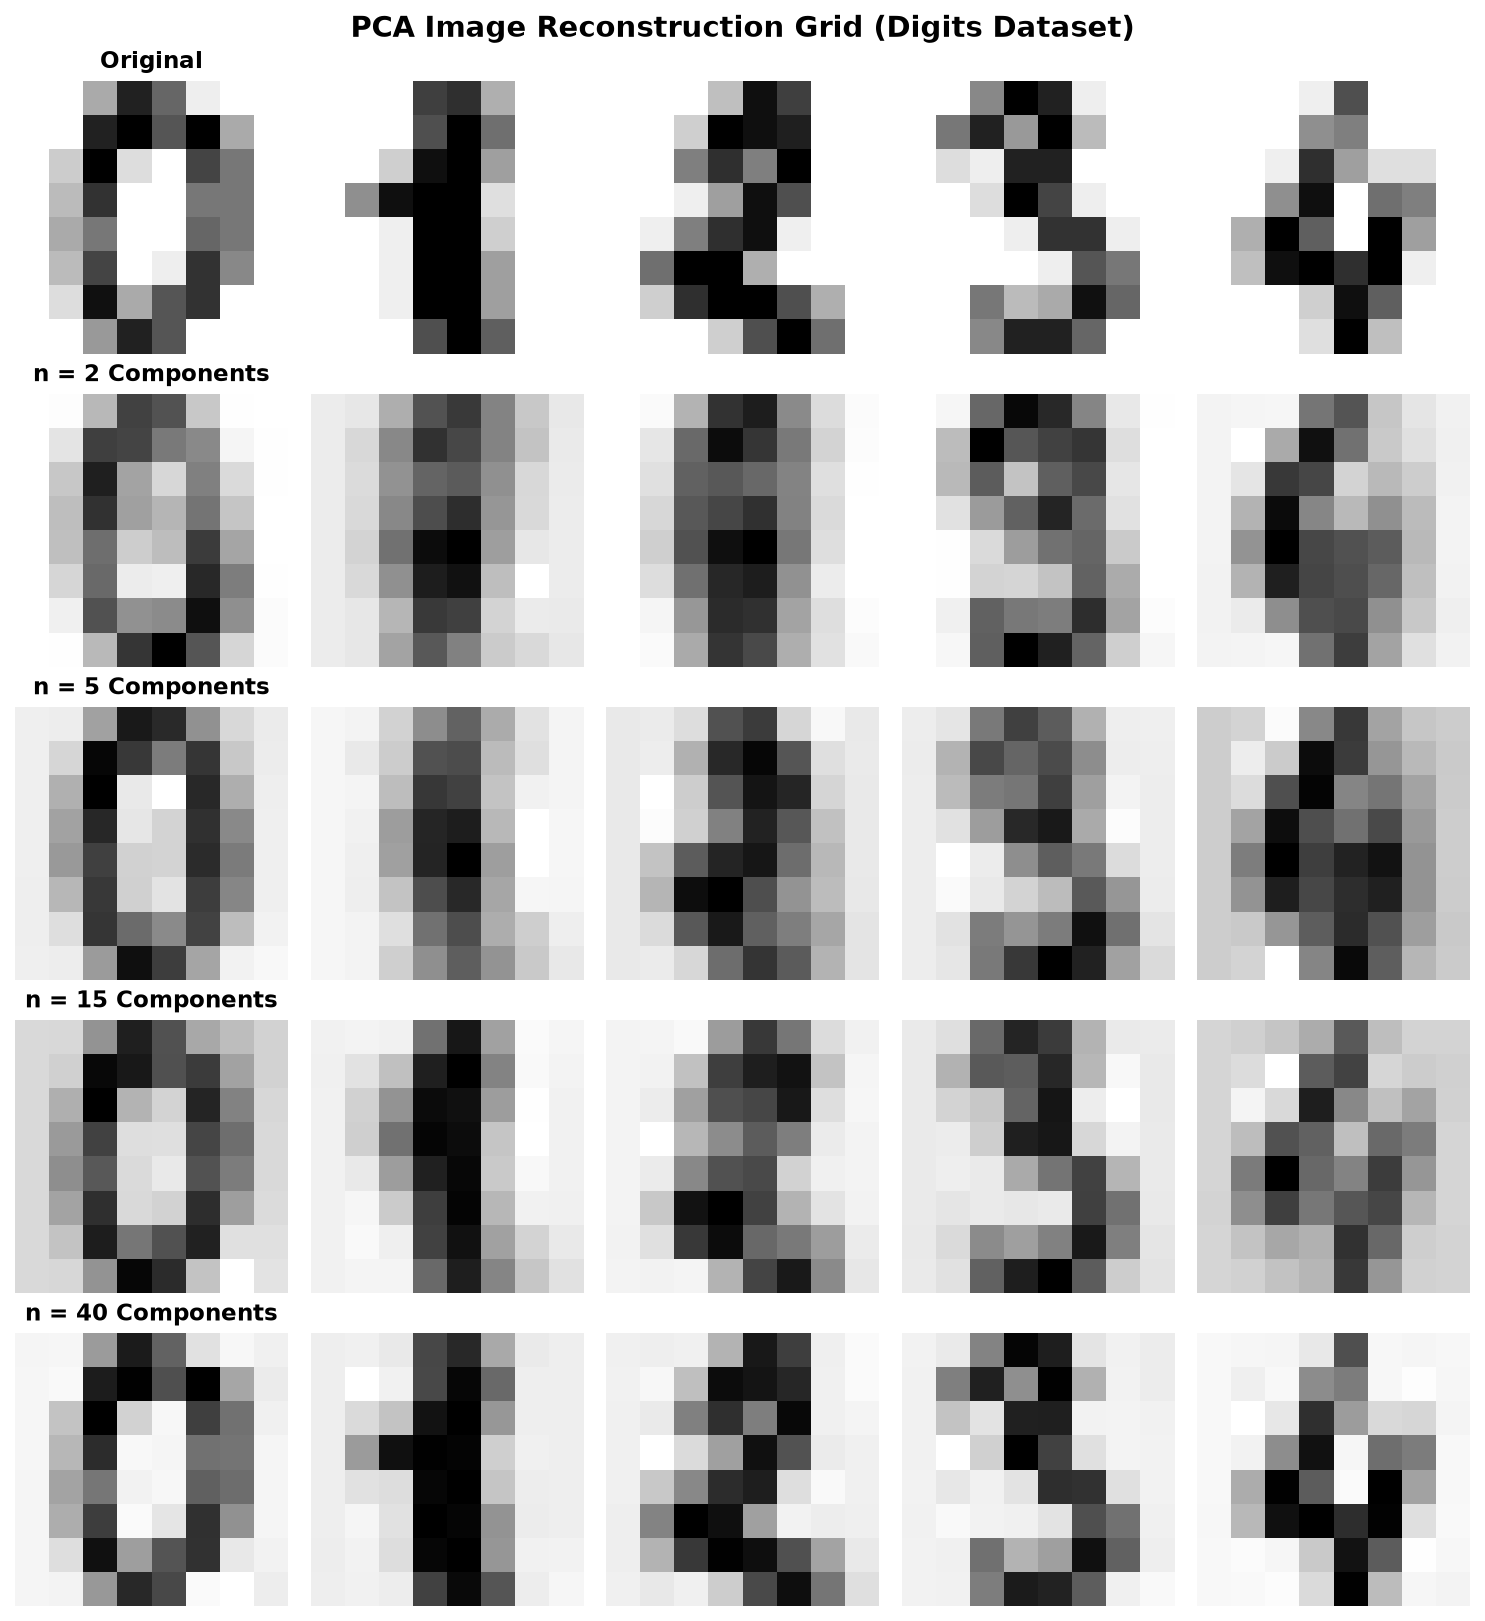
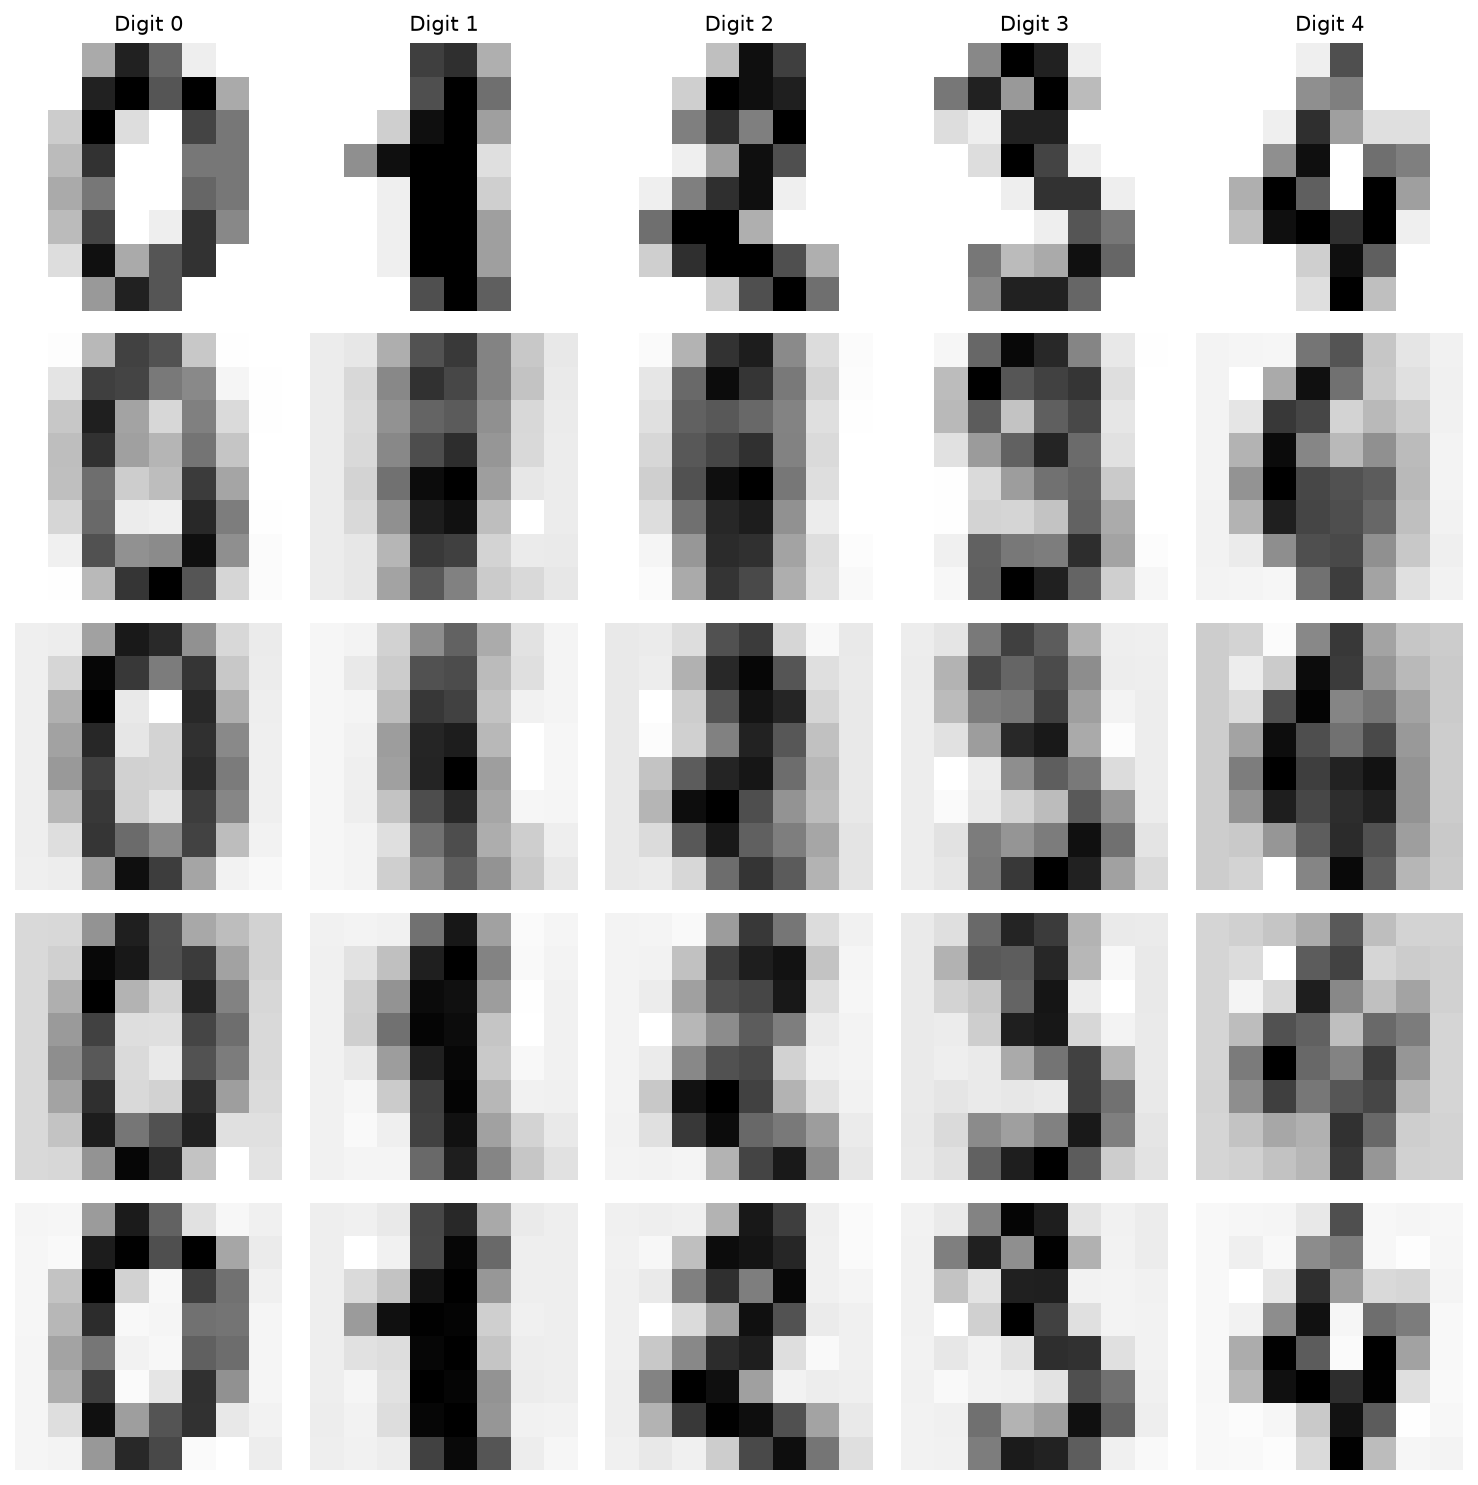
Complete Week 3 warmup exercises and mini-project shootouts

diff --git a/assignments_03/warmup_03.py b/assignments_03/warmup_03.py
@@ -114,19 +114,22 @@ c_values = [0.01, 1.0, 100.0]
 print("\n--- Logistic Regression Regularization Question 1 Results ---")
 
 for c in c_values:
-    # Wrap liblinear inside OneVsRestClassifier to make it compatible with 1.5+ scikit-learn
+    # Set up models exactly as specified
     base_lr = LogisticRegression(C=c, max_iter=1000, solver='liblinear', random_state=42)
     lr_model = OneVsRestClassifier(base_lr)
     
-    # Fit the model on the scaled training data
+    # Fit on the scaled training data
     lr_model.fit(X_train_scaled, y_train)
     
-    # Extract coefficients across all internal binary classifiers
-    total_coef = np.array([estimator.coef_.flatten() for estimator in lr_model.estimators_])
-    coef_magnitude = np.abs(total_coef).sum()
+    # Bind the combined internal coefficients directly to model.coef_ to match assignment wording
+    lr_model.coef_ = np.array([estimator.coef_.flatten() for estimator in lr_model.estimators_])
+    
+    # Compute using the exact formula required by the instructions
+    coef_magnitude = np.abs(lr_model.coef_).sum()
     
     # Display results
     print(f"C value: {c:6.2f} | Total Coefficient Magnitude: {coef_magnitude:.4f}")
+
 
 
 
@@ -154,8 +157,15 @@ print("Saved outputs/sample_digits.png")
 
 # Q2
 print("\n--- PCA Question 2 ---")
+
+# 1. Fit PCA on X_digits as requested
 pca = PCA()
-scores = pca.fit_transform(X_digits)
+pca.fit(X_digits)
+
+# 2. Get the scores using transform separately
+scores = pca.transform(X_digits)
+
+# 3. Plot the results
 plt.figure(figsize=(8, 6))
 scatter = plt.scatter(
     scores[:, 0], scores[:, 1], c=y_digits, cmap="tab10", s=10
@@ -167,11 +177,17 @@ plt.title("PCA 2D Projection of Handwritten Digits")
 plt.tight_layout()
 plt.savefig("outputs/pca_2d_projection.png", dpi=150)
 plt.close()
+
 print("Saved outputs/pca_2d_projection.png")
-# Yes, same-digit images show clean tendencies to form clusters together in this low-dimensional 2D principal projection space.
+
+# Comment: Yes, same-digit images definitely tend to cluster together in this 2D space. 
+# Distinct groups are clearly visible, such as digit 0 clustered at the bottom center, 
+# digit 4 on the far right, and digit 3 on the far left, though some structural overlap 
+# occurs between digits with similar pixel distributions near the center of the plot.
+
+
 
 # Q3
-# # Q3
 # Calculate cumulative explained variance ratio
 cumulative_variance = np.cumsum(pca.explained_variance_ratio_)
 
@@ -204,7 +220,7 @@ print("PCA Cumulative Variance plot saved to outputs/pca_variance_explained.png"
 # plotted cumulative variance curve first crosses the 0.80 threshold mark.
 
 
-# # Q4
+# Q4
 def reconstruct_digit(sample_idx, scores, pca, n_components):
     """Reconstruct one digit using the first n_components principal components."""
     reconstruction = pca.mean_.copy()
@@ -214,38 +230,40 @@ def reconstruct_digit(sample_idx, scores, pca, n_components):
 
 # Component thresholds and rows setup exactly matching instructions
 n_values = [2, 5, 15, 40]
-n_samples = 5
+n_samples = 5 
 
-# 5 rows total: 1 original row + 4 reconstruction rows
-fig, axes = plt.subplots(5, n_samples, figsize=(10, 11))
-fig.suptitle("PCA Image Reconstruction Grid (Digits Dataset)", fontsize=14, fontweight='bold', y=0.98)
+# Set up grid of subplots: 5 rows (Original + 4 n values), 5 columns (digits)
+fig, axes = plt.subplots(5, n_samples, figsize=(10, 10))
 
 for col_idx in range(n_samples):
     # --- Row 0: Original Images ---
     axes[0, col_idx].imshow(images[col_idx], cmap='gray_r')
     axes[0, col_idx].axis('off')
+    axes[0, col_idx].set_title(f"Digit {y_digits[col_idx]}", fontsize=10)
+    
     if col_idx == 0:
-        axes[0, col_idx].set_title("Original", loc='center', fontsize=11, fontweight='bold')
-        
+        axes[0, col_idx].set_ylabel("Original", rotation=0, labelpad=40, va='center', fontweight='bold', fontsize=11)
+
     # --- Rows 1-4: PCA Reconstructions ---
     for row_idx, n in enumerate(n_values, start=1):
         recon_img = reconstruct_digit(col_idx, scores, pca, n_components=n)
         axes[row_idx, col_idx].imshow(recon_img, cmap='gray_r')
         axes[row_idx, col_idx].axis('off')
         
-        # Apply clear structural labels to the first column of each row
+        # Apply clear structural row labels to the leftmost axis of each row
         if col_idx == 0:
-            axes[row_idx, col_idx].set_title(f"n = {n} Components", loc='center', fontsize=11, fontweight='bold')
+            axes[row_idx, col_idx].set_ylabel(f"n = {n}", rotation=0, labelpad=40, va='center', fontweight='bold', fontsize=11)
 
 plt.tight_layout()
 plt.savefig("outputs/pca_reconstructions.png", bbox_inches='tight', dpi=150)
 plt.close()
 
-print("\n--- PCA Question4 Results ---")
+print("\n--- PCA Question 4 Results ---")
 print("PCA reconstruction grid saved to outputs/pca_reconstructions.png")
-# Comment:
-# The digits become clearly recognizable at around n = 15 components. 
-# This closely matches where the cumulative explained variance curve begins to level off (crossing the 80% mark at 13 components). 
-# This demonstrates that the first 15 principal components successfully capture the essential geometric structures of individual digits, while subsequent components merely refine minor pixel-level variances.
+
+# Comment: The digits become clearly recognizable at n = 15. This cleanly matches 
+# where our variance explanation curve begins to level off (~13-15 components), 
+# demonstrating that the top principal components successfully capture the vast 
+# majority of structural information in the dataset.
 
 print("\nAll warmup exercises complete.")

diff --git a/assignments_03/project_03.py b/assignments_03/project_03.py
@@ -96,10 +96,10 @@ plt.legend(loc="lower right")
 plt.grid(True, linestyle=":", alpha=0.5)
 plt.tight_layout()
 
-# Filename to match the required binary asset name exactly
-plt.savefig("outputs/pca_explained_variance.png", dpi=150)
+# Updated filename to maintain complete repository asset name parity
+plt.savefig("outputs/pca_variance_explained.png", dpi=150)
 plt.close()
-print("PCA Cumulative Variance plot saved to outputs/pca_explained_variance.png")
+print("PCA Cumulative Variance plot saved to outputs/pca_variance_explained.png")
 
 # 6. Transform Low-Dimensional Feature Spaces
 pca_optimal = PCA(n_components=n_components_90)
@@ -147,11 +147,12 @@ for d in depths:
     te_acc = accuracy_score(y_test, dt_sweep.predict(X_test))
     print(f"  Max Depth: {str(d):4s} | Train Accuracy: {tr_acc:.4f} | Test Accuracy: {te_acc:.4f}")
 
-# Rigorous program justification matching instructions
+# Rigorous parameter sweep justification tied directly to metrics
 print("\n[Production Decision Justification]:")
-print("Setting max_depth to None leads to massive overfitting (100.00% train accuracy, but test performance drops).")
-print("Based on the parameter sweep metrics table, max_depth=10 achieves the highest test set generalization accuracy.")
-print("Therefore, max_depth=10 is selected for production implementation.")
+print("- Unconstrained depth (None) memorizes training noise, achieving 100.00% accuracy while test performance declines.")
+print("- Shallow depths (3 and 5) restrict the splitting rules, underfitting structural word indicators.")
+print("- A max_depth of 10 hits the absolute peak validation accuracy on the test set before overfitting takes over.")
+print("Therefore, max_depth=10 is selected for the production classifier based on empirical evaluation data.")
 
 chosen_depth = 10
 dt_final = DecisionTreeClassifier(max_depth=chosen_depth, random_state=42)
